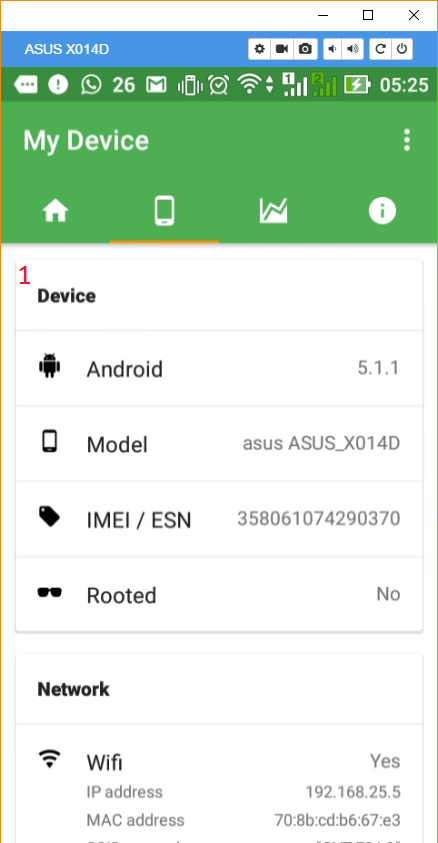
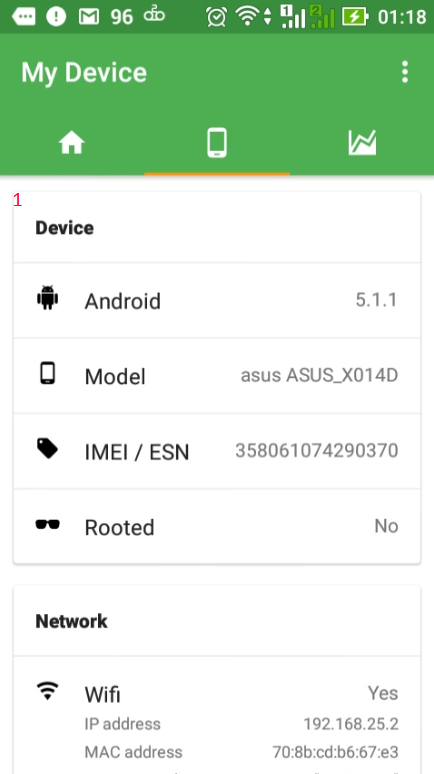
Updating the wiki due to the beta phase changes

diff --git a/app/wiki.html b/app/wiki.html
@@ -45,7 +45,7 @@
             	<h4>1. The home tab</h4>
             	<p>The first tab you are going to see when opening the app is the home tab, shown in picture 1.</p>
             	<figure class="figure">
-                	<img src="./images/wiki/greenhub-home.png" class="img-responsive" width="306" height="590"/>
+                	<img src="./images/wiki/home-2.png" class="img-responsive" width="306" height="590"/>
                 	<figcaption class="figure-caption">Picture 1</figcaption>
             	</figure>
             	<p></p>
@@ -58,53 +58,50 @@
             			<p>2. The device tab.</br>Shows information about the device</p>
             		</li>
             		<li>
-            			<p>3. The statistics tab.</br>Shows battery usage information over time</p>
-            		</li>
-            		<li>
-            			<p>4. The information tab.</br>Contains a brief description of the app</p>
+            			<p>3. The information tab.</br>Contains a brief description of the app</p>
             		</li>
 
             		<li>
-            			<p>5. The battery charge level.</br>It is updated whenever the battery level changes. The battery charge level is also shown on the status bar, shown circled in 14 on the picture.</p>
+            			<p>4. The battery charge level.</br>It is updated whenever the battery level changes. The battery charge level is also shown on the status bar, shown circled in 13 on the picture.</p>
             		</li>
             		<li>
-            			<p>6. The battery electric current readings.</br>Whenever you plug or unplug the charger on your device, the minimum and maximum current readings are reset. These values are updated on a interval of 5 seconds.</p>
-            		</li>
-
-            		<li>
-            			<p>7 to 10. The battery temperature, voltage, health and technology.</br>These readings are updated whenever a battery change event occurs or, if it is enabled in the settings, whenever the screen goes off and on. The red, green and grey icons displayed at the right side of each of these informations tells when those values are in a good range or not.</p>
+            			<p>5. The battery electric current readings.</br>Whenever you plug or unplug the charger on your device, the minimum and maximum current readings are reset. These values are updated on a interval of 5 seconds.</p>
             		</li>
 
             		<li>
-            			<p>7. Temperature</br>For the temperature, the icon on the right is going to be green for values below or equal to 35 degrees celsius, yellow for any value between 35 and 45, and red for temperatures above that. The GreenHub app also notifies the user when the temperature is at the yellow or red range, vibrating your smartphone and asking to wait for it to cool down for a while when it is on the red range.</p>
+            			<p>6 to 9. The battery temperature, voltage, health and technology.</br>These readings are updated whenever a battery change event occurs or, if it is enabled in the settings, whenever the screen goes off and on. The red, green and grey icons displayed at the right side of each of these informations tells when those values are in a good range or not.</p>
             		</li>
 
             		<li>
-            			<p>8. Voltage</br>The battery current voltage, the right icon is always green</p>
+            			<p>6. Temperature</br>For the temperature, the icon on the right is going to be green for values below or equal to 35 degrees celsius, yellow for any value between 35 and 45, and red for temperatures above that. The GreenHub app also notifies the user when the temperature is at the yellow or red range, vibrating your smartphone and asking to wait for it to cool down for a while when it is on the red range.</p>
             		</li>
 
             		<li>
-            			<p>9. Health</br>The battery health, the right icon is green for when it is evaluated as good by the Android system. It could be grey for when the battery is overheated, dead or when it has an over voltage</p>
+            			<p>7. Voltage</br>The battery current voltage, the right icon is always green</p>
             		</li>
 
             		<li>
-            			<p>10. The battery technology</br>The technology is grey for Li-ion and green for anything different from that.</p>
+            			<p>8. Health</br>The battery health, the right icon is green for when it is evaluated as good by the Android system. It could be grey for when the battery is overheated, dead or when it has an over voltage</p>
             		</li>
 
             		<li>
-            			<p>11. Charging status</br>The bar shown in 11 tells if your device is unplugged, charging through AC, USB or Wireless, respectively.</p>
+            			<p>9. The battery technology</br>The technology is grey for Li-ion and green for anything different from that.</p>
             		</li>
 
             		<li>
-            			<p>12. Upload status</br>The app changes this text according to what it is trying to do at the moment. It could tell you that you don't have internet connection or the number of samples being sent, for example.</p>
+            			<p>10. Charging status</br>The bar shown in 10 tells if your device is unplugged, charging through AC, USB or Wireless, respectively.</p>
             		</li>
 
             		<li>
-            			<p>13. Upload button</br>This button is used to upload samples of information from your device to our data server. Whenever you click that button, the result is shown in the text displayed in 12. By default, GreenHub App tries to send samples after every 20 samples. It keeps the samples in your device until it gets a chance to send them, when this happens they are deleted from your device.</p>
+            			<p>11. Upload status</br>The app changes this text according to what it is trying to do at the moment. It could tell you that you don't have internet connection or the number of samples being sent, for example.</p>
             		</li>
 
             		<li>
-            			<p>14. The battery charge level on the status bar.</br>The same as in 5, having the possiblity of being one unit behind due to different updating mechanism.</p>
+            			<p>12. Upload button</br>This button is used to upload samples of information from your device to our data server. Whenever you click that button, the result is shown in the text displayed in 11. By default, GreenHub App tries to upload samples after every 20 samples. It keeps the samples in your device until it gets a chance to send them, when this happens they are deleted from your device.</p>
+            		</li>
+
+            		<li>
+            			<p>13. The battery charge level on the status bar.</br>The same as in 4, having the possiblity of being one unit behind due to different updating mechanism.</p>
             		</li>
             	</ul>
             </div>
@@ -188,38 +185,18 @@
             </div>
         </div>
 
-        <div class="row">
-            <div class="col-lg-12">
-            	<h4>4. The information tab</h4>
-            	<p>This is the fourth tab from left to right, shown in picture 8</p>
-            </div>
-        </div>
-        <div class="row">
-        	<div class="col-lg-12">
-        		<figure class="figure">
-                	<img src="./images/wiki/info.png" class="img-responsive" width="306" height="590"/>
-                	<figcaption class="figure-caption">Picture 8</figcaption>
-            	</figure>
-        	</div>
-        </div>
-        <div class="row">
-            <div class="col-lg-12">
-            	<p></p>
-            	<p>This tab is currently just an informative tab.</p>
-            	
-            </div>
-        </div>
+        
 
         <div class="row">
             <div class="col-lg-12">
-            	<h4>5. The menu</h4>
+            	<h4>4. The menu</h4>
             	<p>In the upper right corner of the app, we have the menu, shown in picture 9</p>
             </div>
         </div>
         <div class="row">
         	<div class="col-lg-12">
         		<figure class="figure">
-                	<img src="./images/wiki/menu.png" class="img-responsive" width="306" height="590"/>
+                	<img src="./images/wiki/menu.jpg" class="img-responsive" width="306" height="590"/>
                 	<figcaption class="figure-caption">Picture 9</figcaption>
             	</figure>
         	</div>
@@ -227,13 +204,13 @@
         <div class="row">
             <div class="col-lg-12">
             	<p></p>
-            	<p>In the menu there are currently two buttons. The summary button, shown in 1, leads you to your system's battery usage summary. The settings button, in 2, leads you to the app's preferences settings.</p>
+            	<p>In the menu there are currently three buttons. The first button, called inbox, shows a screen where the GreenHub developers can communicate with its users. The summary button, shown in 1, leads you to your system's battery usage summary. The settings button, in 2, leads you to the app's preferences settings.</p>
             </div>
         </div>
 
         <div class="row">
             <div class="col-lg-12">
-            	<h4>6. The settings screen</h4>
+            	<h4>5. The settings screen</h4>
             	<p>This is the second option from up to down in the menu, shown in pictures 10 and 11. In the settings screen you are able to adjust the behavior of the app, such as rate at which samples are sent and the notifications you want to see.</p>
             </div>
         </div>
